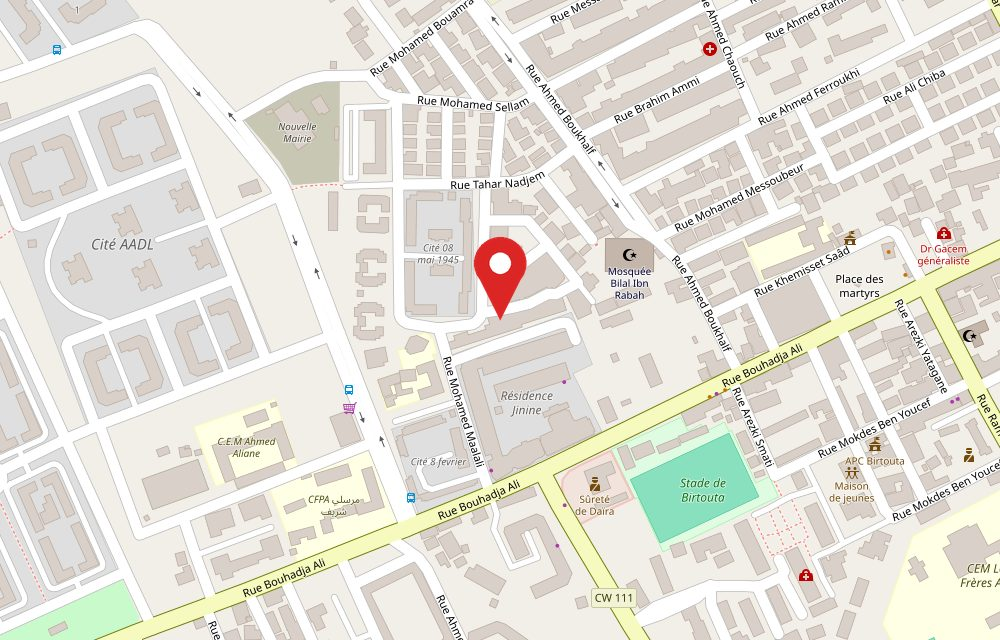
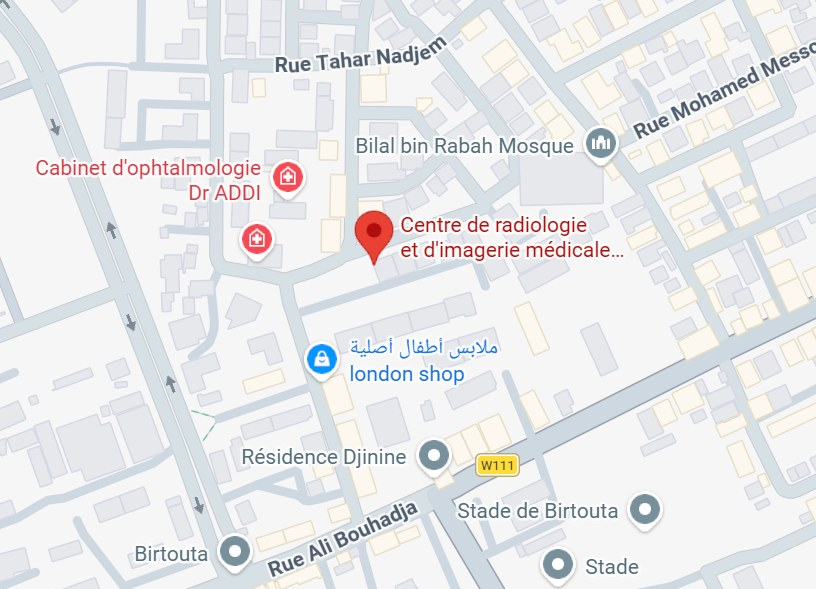
Localisation : plan remplace par une capture Google Maps (credit Google), centree sur le repere

diff --git a/ar/index.html b/ar/index.html
@@ -485,10 +485,10 @@
       <div class="location-grid">
         <div class="map-wrap">
           <a href="https://www.google.com/maps?cid=11169275753900821591" target="_blank" rel="noopener" class="map-static" aria-label="فتح موقع المركز في خرائط جوجل">
-            <img src="../assets/carte-birtouta.jpg" alt="خريطة بئر توتة: مركز CIM الدكتور مراد خلف مسجد بلال بن رباح" width="1000" height="640" loading="lazy">
+            <img src="../assets/carte-birtouta.jpg" alt="خريطة بئر توتة: مركز CIM الدكتور مراد خلف مسجد بلال بن رباح" width="816" height="589" loading="lazy">
             <span class="map-open-btn"><svg viewBox="0 0 24 24" width="18" height="18" fill="none" aria-hidden="true"><path d="M12 22s7-7.58 7-13A7 7 0 0 0 5 9c0 5.42 7 13 7 13z" stroke="currentColor" stroke-width="2"/><circle cx="12" cy="9" r="2.5" stroke="currentColor" stroke-width="2"/></svg><span>فتح في خرائط جوجل</span></span>
           </a>
-          <span class="map-credit">© OpenStreetMap</span>
+          <span class="map-credit">© Google</span>
         </div>
         <div class="location-info fade-in">
           <img src="../assets/photo-facade.jpg" alt="واجهة مركز CIM الدكتور مراد في بئر توتة" class="facade-photo" width="960" height="342" loading="lazy">

diff --git a/index.html b/index.html
@@ -484,10 +484,10 @@
       <div class="location-grid">
         <div class="map-wrap">
           <a href="https://www.google.com/maps?cid=11169275753900821591" target="_blank" rel="noopener" class="map-static" aria-label="Ouvrir la localisation du centre dans Google Maps">
-            <img src="assets/carte-birtouta.jpg" alt="Plan de Birtouta : le CIM Dr MERAD, derrière la Mosquée Bilal Ibn Rabah" width="1000" height="640" loading="lazy">
+            <img src="assets/carte-birtouta.jpg" alt="Plan de Birtouta : le CIM Dr MERAD, derrière la Mosquée Bilal Ibn Rabah" width="816" height="589" loading="lazy">
             <span class="map-open-btn"><svg viewBox="0 0 24 24" width="18" height="18" fill="none" aria-hidden="true"><path d="M12 22s7-7.58 7-13A7 7 0 0 0 5 9c0 5.42 7 13 7 13z" stroke="currentColor" stroke-width="2"/><circle cx="12" cy="9" r="2.5" stroke="currentColor" stroke-width="2"/></svg><span>Ouvrir dans Google Maps</span></span>
           </a>
-          <span class="map-credit">© OpenStreetMap</span>
+          <span class="map-credit">© Google</span>
         </div>
         <div class="location-info fade-in">
           <img src="assets/photo-facade.jpg" alt="Façade du centre CIM Dr MERAD à Birtouta" class="facade-photo" width="960" height="342" loading="lazy">

diff --git a/css/style.css b/css/style.css
@@ -767,7 +767,7 @@ body::after { right: 0; }
   width: 100%;
   height: 100%;
   object-fit: cover;
-  object-position: center;
+  object-position: 46% 39%;
   transition: transform 0.4s ease;
 }
 .map-static:hover img { transform: scale(1.03); }
